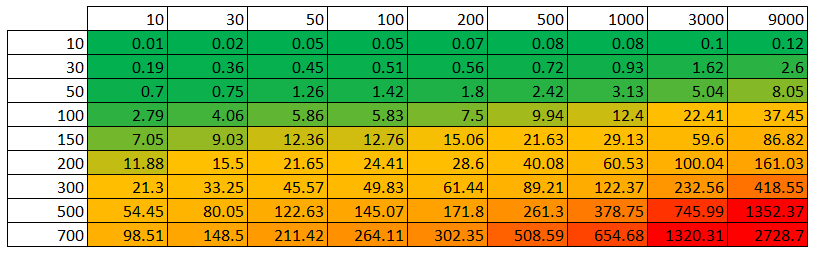
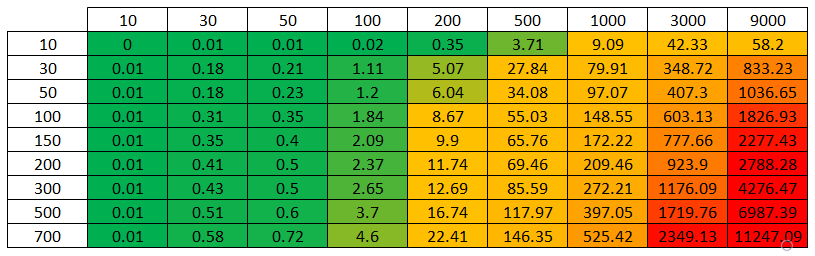
Improve algorithm

diff --git a/SimilarityMatrix.py b/SimilarityMatrix.py
@@ -2,6 +2,7 @@ import pandas as pd
 import numpy as np
 import time
 from scipy.spatial.distance import cosine
+import unicodedata
 
 class SimilarityMatrix:
     # constants
@@ -16,45 +17,60 @@ class SimilarityMatrix:
     userSimMatrix = None
     movieSimMatrix = None
 
-    def __init__(self, fromScratch):
+    def __init__(self, fromScratch, N=-1, M=-1):
         # read in movies metadata
         print('Reading movie metadata...', flush=True)
-        df = pd.read_csv(self.MOVIES_PATH, usecols=['id', 'original_title'])
-        self.movieMatrix = df
+        self.movieMatrix = pd.read_csv(self.MOVIES_PATH, usecols=['id', 'original_title'])
+        self.movieMatrix['id'] = self.movieMatrix[pd.to_numeric(self.movieMatrix['id'], errors='coerce', downcast='integer').notnull()]
+        self.movieMatrix['original_title'] = self.movieMatrix['original_title'].str.encode('ascii', 'replace').str.decode('ascii')
+        invalidMovies = self.movieMatrix[self.movieMatrix.isna().any(axis=1)].index.tolist()
+        self.movieMatrix = self.movieMatrix.dropna()
+        self.movieMatrix = self.movieMatrix.astype({'id': 'int', 'original_title': 'string'})
+        validMovies = list(map(int, self.movieMatrix['id'].tolist()))
 
         # read in ratings data
         print('Reading ratings data...', flush=True)
-        df = pd.read_csv(self.RATINGS_PATH, usecols=['userId', 'movieId', 'rating'])
+        self.ratingMatrix = pd.read_csv(self.RATINGS_PATH, usecols=['userId', 'movieId', 'rating'])
+        self.ratingMatrix = self.ratingMatrix.astype({'userId': 'int', 'movieId': 'int', 'rating': 'float'})
+        for movie in invalidMovies:
+            self.ratingMatrix = self.ratingMatrix.drop(self.ratingMatrix[self.ratingMatrix['movieId'] == movie].index)
 
         # load matrices from file path
         if (not fromScratch):
-            self.ratingMatrix = df.pivot_table(index='userId', columns='movieId', values='rating')
+            self.ratingMatrix = self.ratingMatrix.pivot_table(index='userId', columns='movieId', values='rating')
+            self.ratingMatrix = self.ratingMatrix[self.ratingMatrix.columns.intersection(validMovies)]
             print('Loading similarity matrices...', flush=True)
             self.userSimMatrix = pd.read_csv(self.USER_MATRIX_PATH, index_col=0)
-            self.userSimMatrix = pd.DataFrame(self.userSimMatrix.to_numpy(), index=np.arange(1, self.userSimMatrix.shape[0] + 1), columns=np.arange(1, self.userSimMatrix.shape[0] + 1))
+            self.userSimMatrix.index = self.userSimMatrix.index.map(int)
+            self.userSimMatrix.columns = self.userSimMatrix.columns.map(int)
             self.movieSimMatrix = pd.read_csv(self.MOVIE_MATRIX_PATH, index_col=0)
-            self.movieSimMatrix = pd.DataFrame(self.movieSimMatrix.to_numpy(), index=np.arange(1, self.movieSimMatrix.shape[0] + 1), columns=np.arange(1, self.movieSimMatrix.shape[0] + 1))
+            self.movieSimMatrix.index = self.movieSimMatrix.index.map(int)
+            self.movieSimMatrix.columns = self.movieSimMatrix.columns.map(int)
             return
 
         # dimensions
-        N = -1
-        M = -1
         if (N != -1):
-            df = df.loc[df['movieId'] <= N]
+            self.ratingMatrix = self.ratingMatrix.loc[self.ratingMatrix['movieId'] <= N]
+            self.movieMatrix = self.movieMatrix.loc[self.movieMatrix['id'] <= N]
         if (M != -1):
-            df = df.loc[df['userId'] <= M]
-        self.ratingMatrix = df.pivot_table(index='userId', columns='movieId', values='rating')
+            self.ratingMatrix = self.ratingMatrix.loc[self.ratingMatrix['userId'] <= M]
+        self.ratingMatrix = self.ratingMatrix.pivot_table(index='userId', columns='movieId', values='rating')
+        self.ratingMatrix = self.ratingMatrix[self.ratingMatrix.columns.intersection(validMovies)]
         
         # similarity matrices from sparse table
-        print('\nCreating user similarity matrix...', flush=True)
+        print('Creating user similarity matrix...', flush=True)
         start = time.time()
         self.userSimMatrix = self.makeSimMatrix(self.ratingMatrix)
+        self.userSimMatrix.index = self.userSimMatrix.index.map(int)
+        self.userSimMatrix.columns = self.userSimMatrix.columns.map(int)
         elapsed = time.time() - start
         print('User similarity matrix created in ' + self.makeTimeString(elapsed))
 
-        print('\nCreating movie similarity matrix...', flush=True)
+        print('Creating movie similarity matrix...', flush=True)
         start = time.time()
         self.movieSimMatrix = self.makeSimMatrix(self.ratingMatrix.T)
+        self.movieSimMatrix.index = self.movieSimMatrix.index.map(int)
+        self.movieSimMatrix.columns = self.movieSimMatrix.columns.map(int)
         elapsed = time.time() - start
         print('Movie similarity matrix created in ' + self.makeTimeString(elapsed))
 
@@ -79,7 +95,7 @@ class SimilarityMatrix:
                     val = 1 - (abs(rows.iat[0,0] - rows.iat[1,0]) / 5.0)
                 matrix[i, j] = val
                 matrix[j, i] = val
-        return pd.DataFrame(matrix, index=np.arange(1, N + 1), columns=np.arange(1, N + 1))
+        return pd.DataFrame(matrix, index=df.index, columns=df.index)
 
     def makeTimeString(self, elapsed):
         minutes = int(elapsed // 60)
@@ -93,20 +109,21 @@ class SimilarityMatrix:
     def similarUser(self):
         input1 = 'What is your user ID? '
         id = input(input1)
-        while (not id.isnumeric() or int(id) < 1 or int(id) > self.userSimMatrix.shape[0]):
+        while (not id.isnumeric() or int(id) < 1 or not int(id) in self.userSimMatrix.index):
             if (not id.isnumeric()):
                 id = input(input1)
             if (int(id) <= 0):
                 id = input('ID must be greater than or equal to 1. ' + input1)
-            elif (int(id) > self.userSimMatrix.shape[0]):
-                id = input('ID must be less than or equal to ' + str(self.userSimMatrix.shape[0]) + '. ' + input1)
+            else:
+                id = input('Sorry, that ID is not in the similarity matrix. ' + input1)
+        id = int(id)
             
         # find most similar users
         M = 30
         if (M >= self.userSimMatrix.shape[0]):
             M = self.userSimMatrix.shape[0] - 1
-        topUsers = self.userSimMatrix.nlargest(M + 1, [int(id)])
-        topUsers = topUsers.drop([int(id)])
+        topUsers = self.userSimMatrix.nlargest(M + 1, [id])
+        topUsers = topUsers.drop([id])
 
         # average their movie ratings
         userIds = []
@@ -118,34 +135,31 @@ class SimilarityMatrix:
         N = 5
         if (N >= averageRatings.shape[0]):
             N = averageRatings.shape[0] - 1
-        # not sure why some aren't found, N increased for now
-        topMovies = averageRatings.nlargest(averageRatings.shape[0])
+        topMovies = averageRatings.nlargest(N)
 
         # print data
+        N = topMovies.shape[0]
         print('The top ' + str(N) + ' movie' + ('' if N == 1 else 's') + ' suggested for you are:')
         i = 0
         for movieId in topMovies.index:
-            if (i >= N):
-                continue
             row = self.movieMatrix.loc[self.movieMatrix['id'] == movieId]
-            if (row.empty):
-                continue
             i += 1
             print('\t' + str(i) + '. ' + row.iloc[0]['original_title'])
     
     def similarMovie(self):
         input1 = 'What is the ID of the movie you would like similar recommendations for? '
         id = input(input1)
-        while (not id.isnumeric() or int(id) < 1 or int(id) > self.movieSimMatrix.shape[0]):
+        while (not id.isnumeric() or int(id) < 1 or not int(id) in self.movieSimMatrix.index):
             if (not id.isnumeric()):
                 id = input(input1)
             elif (int(id) <= 0):
                 id = input('ID must be greater than or equal to 1. ' + input1)
-            elif (int(id) > self.movieSimMatrix.shape[0]):
-                id = input('ID must be less than or equal to ' + str(self.movieSimMatrix.shape[0]) + '. ' + input1)
+            else:
+                id = input('Sorry, that ID is not in the similarity matrix. ' + input1)
+        id = int(id)
         
         # find movie title if exists
-        titleRow = self.movieMatrix.loc[self.movieMatrix['id'] == int(id)]
+        titleRow = self.movieMatrix.loc[self.movieMatrix['id'] == id]
         if (titleRow.empty):
             print('Error. Movie ID not found in movie metadata file.')
             return
@@ -155,18 +169,14 @@ class SimilarityMatrix:
         N = 5
         if (N >= self.movieSimMatrix.shape[0]):
             N = self.movieSimMatrix.shape[0] - 1
-        # not sure why some aren't found, N increased for now
-        topMovies = self.movieSimMatrix.nlargest(self.movieSimMatrix.shape[0], [int(id)])
-        topMovies = topMovies.drop([int(id)])
+        topMovies = self.movieSimMatrix.nlargest(N + 1, [id])
+        topMovies = topMovies.drop([id])
 
         # print data
+        N = topMovies.shape[0]
         print('The top ' + str(N) + ' movie' + ('' if N == 1 else 's') + ' rated most similar to ' + title + ' are:')
         i = 0
         for movieId in topMovies.index:
-            if (i >= N):
-                continue
-            row = self.movieMatrix.loc[self.movieMatrix['id'] == movieId]
-            if (row.empty):
-                continue
+            row = self.movieMatrix.loc[self.movieMatrix['id'] == int(movieId)]
             i += 1
             print('\t' + str(i) + '. ' + row.iloc[0]['original_title'])

diff --git a/main.py b/main.py
@@ -1,4 +1,3 @@
-from asyncio.windows_events import NULL
 from SimilarityMatrix import SimilarityMatrix
 
 def main():
@@ -7,15 +6,29 @@ def main():
     val = input(input1).lower()
     while (val != 'n' and val != 'y'):
         val = input(input1).lower()
-    mat = SimilarityMatrix(True if val == 'y' else False)
+    mat = None
+    if (val == 'n'):
+        mat = SimilarityMatrix(False)
+    else:
+        input2 = 'Enter dimension for N (0 for all movies): '
+        n = input(input2)
+        while (not n.isnumeric()):
+            n = input(input2)
+        n = int(n)
+        input3 = 'Enter dimension for M (0 for all users): '
+        m = input(input3)
+        while (not m.isnumeric()):
+            m = input(input3)
+        m = int(m)
+        mat = SimilarityMatrix(True, -1 if n == 0 else n, -1 if m == 0 else m)
 
     # create recommendations
     print()
-    input2 = 'Would you like to find movies you may like [1], movies similar to another [2], or quit [q]? '
+    input4 = 'Would you like to find movies you may like [1], movies similar to another [2], or quit [q]? '
     while (val != 'q'):
-        val = input(input2).lower()
+        val = input(input4).lower()
         while (val != '1' and val != '2' and val != 'q'):
-            val = input(input2).lower()
+            val = input(input4).lower()
         if (val == 'q'):
             break
 

diff --git a/testRuntimes.py b/testRuntimes.py
@@ -1,0 +1,17 @@
+from SimilarityMatrix import SimilarityMatrix
+
+def main():
+    # define pairs of N and M
+    pairs = []
+    N = [10, 30, 50, 100, 200, 500, 1000, 3000, -1]
+    M = [10, 30, 50, 100, 150, 200, 300, 500, -1]
+    for n in N:
+        for m in M:
+            pairs.append((n, m))
+    
+    for pair in pairs:
+        print('\nTesting with N=' + str(pair[0]) + ' and M=' + str(pair[1]), flush=True)
+        mat = SimilarityMatrix(True, pair[0], pair[1])
+
+if __name__ == '__main__':
+    main()
